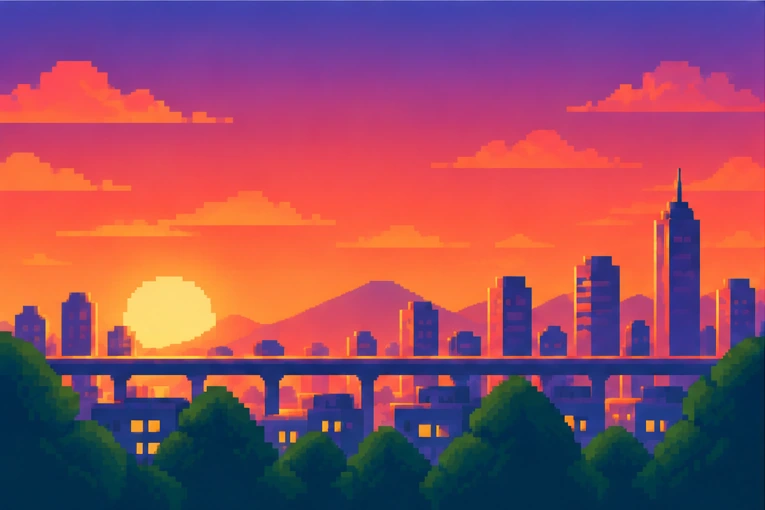
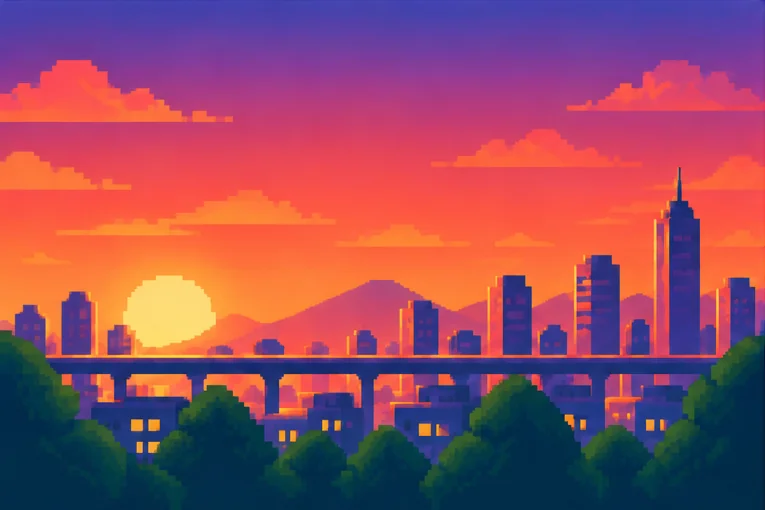
fix(home): align pixel-art bridge baselines across day periods

diff --git a/src/SkyScene.tsx b/src/SkyScene.tsx
@@ -7,7 +7,7 @@ export default function SkyScene({ period }: { period: DayPeriod }) {
     <div className="sky-scene" aria-hidden="true">
       <img
         className="sky-scene__art"
-        src={`${import.meta.env.BASE_URL}backgrounds/pixel-${period}.webp`}
+        src={`${import.meta.env.BASE_URL}backgrounds/pixel-${period}.webp?v=bridge-aligned-1`}
         alt=""
         loading="eager"
         decoding="async"
